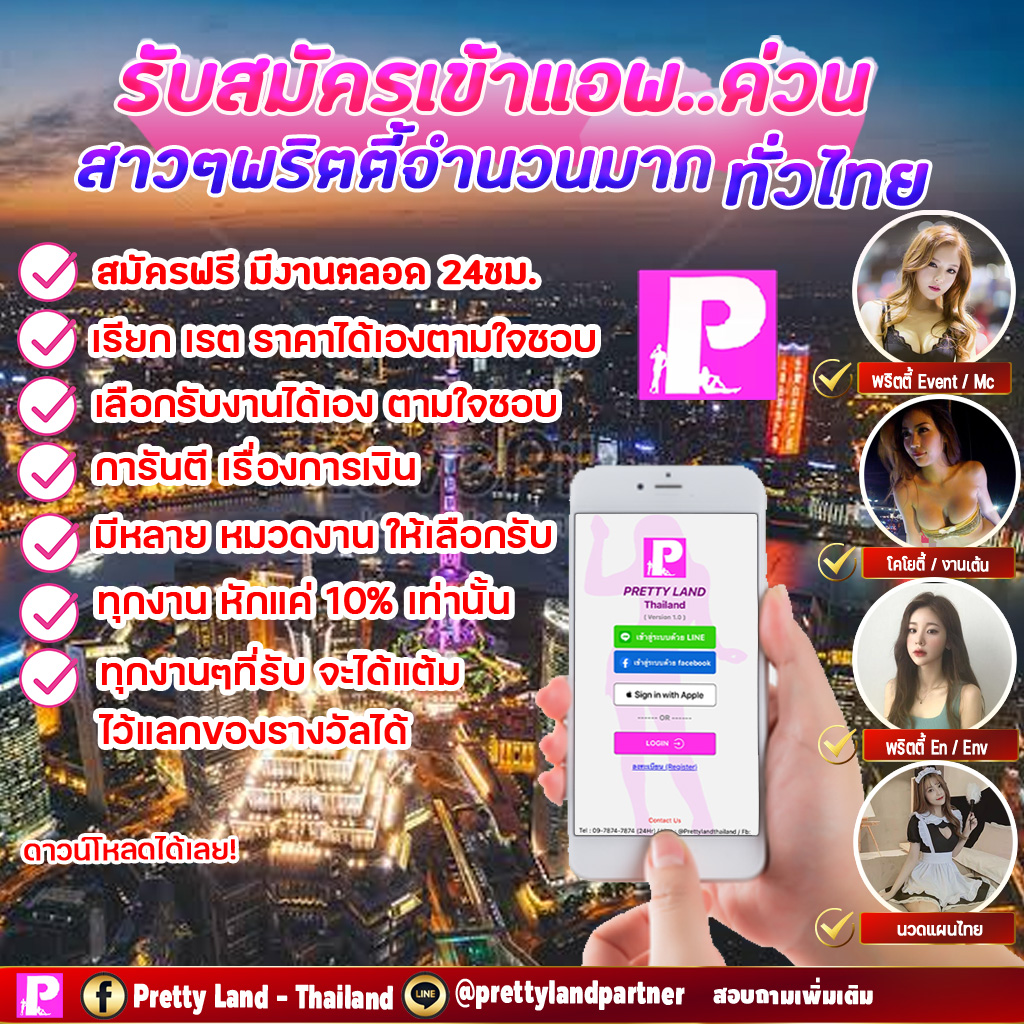
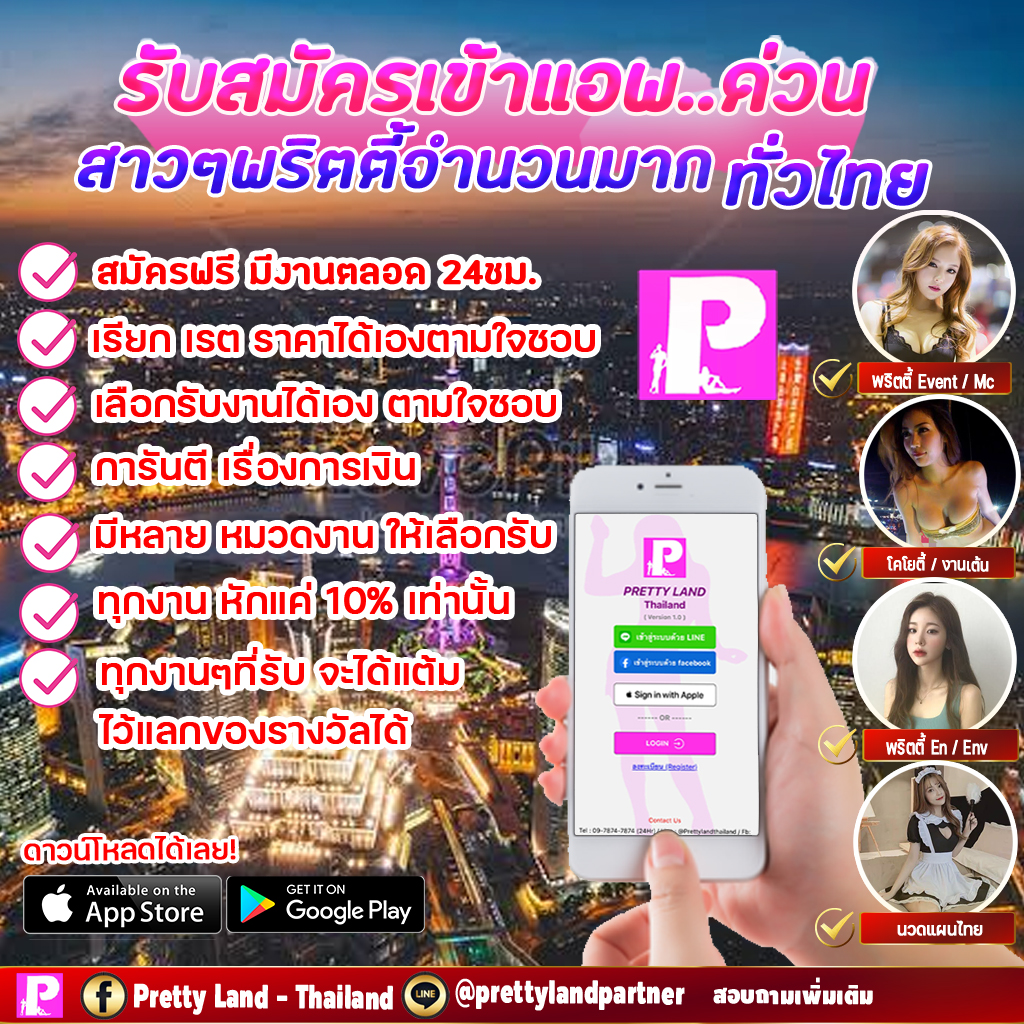
update new bg and add partner available function

Changed region(s): [[0.0, 0.8438, 0.4375, 0.9375]]

diff --git a/pretty-web/src/apps/containers/homeAdmin/members/Profile.js b/pretty-web/src/apps/containers/homeAdmin/members/Profile.js
@@ -1,12 +1,28 @@
 import React from "react"
 import { useHistory } from "react-router-dom"
+import { makeStyles } from "@material-ui/core/styles"
 import styled from "styled-components"
+import ImageList from "@material-ui/core/ImageList"
+import ImageListItem from "@material-ui/core/ImageListItem"
 
 import Moment from "moment"
 import { Button } from "@material-ui/core"
 
 import firebase from "../../../../util/firebase"
 import { AppConfig } from "../../../../Constants"
+
+const useStyles = makeStyles((theme) => ({
+  root: {
+    display: "flex",
+    flexWrap: "wrap",
+    justifyContent: "space-around",
+    backgroundColor: theme.palette.background.paper
+  },
+  imageList: {
+    width: 500,
+    height: 450
+  }
+}))
 
 const Container = styled.div`
   height: 100vh;
@@ -20,6 +36,7 @@ const Container = styled.div`
 export default function BasicImageList(props) {
   const history = useHistory()
   const { profile } = history.location.state
+  const classes = useStyles()
 
   const approveMember = () => {
     firebase.database().ref(`${AppConfig.env}members/${profile.id}`).update({
@@ -59,21 +76,70 @@ export default function BasicImageList(props) {
           <div>เบอร์ติดต่อ: {profile.mobile}</div>
           <div>สถานะ: {profile.status}</div>
         </div>
-        <div style={{ margin: 10 }}>
-          {profile.status === AppConfig.MemberStatus.newRegister && (
-            <Button
-              variant="contained"
-              color="primary"
-              style={{ margin: 5, backgroundColor: "green", color: "white" }}
-              onClick={approveMember}
-            >
-              อนุมัติข้อมูล
-            </Button>
+      </div>
+      <div style={{ margin: 10 }}>
+        <ImageList rowHeight={450} cols={2}>
+          {profile.imageUrl1 && (
+            <ImageListItem cols={2}>
+              <img
+                src={profile.imageUrl1}
+                style={{ height: "100%", width: "auto" }}
+                alt={""}
+              />
+            </ImageListItem>
           )}
-          <Button variant="contained" color="secondary" onClick={suspendMember}>
-            ลบข้อมูลออกจากระบบ
+          {profile.imageUrl2 && (
+            <ImageListItem cols={2}>
+              <img
+                src={profile.imageUrl2}
+                style={{ height: "100%", width: "auto" }}
+                alt={""}
+              />
+            </ImageListItem>
+          )}
+          {profile.imageUrl3 && (
+            <ImageListItem cols={2}>
+              <img
+                src={profile.imageUrl3}
+                style={{ height: "100%", width: "auto" }}
+                alt={""}
+              />
+            </ImageListItem>
+          )}
+          {profile.imageUrl4 && (
+            <ImageListItem cols={2}>
+              <img
+                src={profile.imageUrl4}
+                style={{ height: "100%", width: "auto" }}
+                alt={""}
+              />
+            </ImageListItem>
+          )}
+          {profile.imageUrl5 && (
+            <ImageListItem cols={2}>
+              <img
+                src={profile.imageUrl5}
+                style={{ height: "100%", width: "auto" }}
+                alt={""}
+              />
+            </ImageListItem>
+          )}
+        </ImageList>
+      </div>
+      <div style={{ margin: 10 }}>
+        {profile.status === AppConfig.MemberStatus.newRegister && (
+          <Button
+            variant="contained"
+            color="primary"
+            style={{ margin: 5, backgroundColor: "green", color: "white" }}
+            onClick={approveMember}
+          >
+            อนุมัติข้อมูล
           </Button>
-        </div>
+        )}
+        <Button variant="contained" color="secondary" onClick={suspendMember}>
+          ลบข้อมูลออกจากระบบ
+        </Button>
       </div>
     </Container>
   )

diff --git a/pretty-web/src/apps/containers/homePartner/Profile.js b/pretty-web/src/apps/containers/homePartner/Profile.js
@@ -1,16 +1,19 @@
-import React from "react"
+import React, { useEffect, useState } from "react"
 import { makeStyles } from "@material-ui/core/styles"
 import ImageList from "@material-ui/core/ImageList"
 import ImageListItem from "@material-ui/core/ImageListItem"
+import FormControlLabel from "@material-ui/core/FormControlLabel"
 
 import ProfileHeader from "./ProfileHeader"
+import IOSSwitch from "./iosSwitch"
+import { updateWorkingStatus } from "../../../apis"
 
 const useStyles = makeStyles((theme) => ({
   root: {
     display: "flex",
     flexWrap: "wrap",
     justifyContent: "space-around",
-    backgroundColor: theme.palette.background.paper,
+    backgroundColor: theme.palette.background.paper
   },
   imageList: {
     width: 500,
@@ -18,13 +21,36 @@ const useStyles = makeStyles((theme) => ({
   }
 }))
 
-export default function BasicImageList(props) {
+export default function Profile(props) {
   const { profile } = props
+  console.log("id:", profile.id, profile.work_status)
   const classes = useStyles()
+  const [checked, setChecked] = useState(false)
+
+  const handleStatus = (evt) => {
+    updateWorkingStatus(profile.id, !evt.target.checked)
+    setChecked(evt.target.checked)
+  }
+
+  useEffect(() => {
+    if (profile) {
+      setChecked(profile.work_status === "available")
+    }
+  }, [profile])
 
   return (
     <div style={{ height: "500px", overflow: "auto" }}>
       <div className={classes.root}>
+        <FormControlLabel
+          control={
+            <IOSSwitch
+              checked={checked}
+              onChange={handleStatus}
+              name="checked"
+            />
+          }
+          label={checked ? "พร้อมรับงาน" : "ไม่ว่าง"}
+        />
         <ProfileHeader profile={profile} />
         <ImageList rowHeight={450} className={classes.imageList} cols={2}>
           {profile.imageUrl1 && (

diff --git a/pretty-web/src/App.js b/pretty-web/src/App.js
@@ -96,51 +96,18 @@ const App = () => {
     window.location.href = "https://pretty-land.web.app/"
   }
 
-  const downloadAndroid = () => {
-    window.location.href = "https://pretty-land.web.app/"
-  }
+  // const downloadAndroid = () => {
+  //   window.location.href = "https://pretty-land.web.app/"
+  // }
 
-  const partnerConnectAdminLine = () => {
-    console.log("onClick:partnerConnectAdminLine")
-    window.location.href = "https://lin.ee/8f5kP3x"
-  }
+  // const partnerConnectAdminLine = () => {
+  //   console.log("onClick:partnerConnectAdminLine")
+  //   window.location.href = "https://lin.ee/8f5kP3x"
+  // }
 
   return (
     <div>
       <div>
-        <img
-          src="download_ios.png"
-          alt=""
-          style={{
-            width: 90,
-            position: "absolute",
-            top: window.innerHeight - window.innerHeight / 2 - 43,
-            left: 10
-          }}
-          onClick={downloadIOS}
-        />
-        <img
-          src="download_android.png"
-          alt=""
-          style={{
-            width: 90,
-            position: "absolute",
-            top: window.innerHeight - window.innerHeight / 2 - 43,
-            left: 100
-          }}
-          onClick={downloadAndroid}
-        />
-        <img
-          src="click_here_line.png"
-          alt=""
-          style={{
-            width: 50,
-            position: "absolute",
-            top: window.innerHeight - window.innerHeight / 2 + 25,
-            right: 0
-          }}
-          onClick={partnerConnectAdminLine}
-        />
         <img
           src="bg.jpg"
           alt=""
@@ -151,6 +118,7 @@ const App = () => {
             backgroundRepeat: "no-repeat",
             backgroundSize: "contain"
           }}
+          onClick={downloadIOS}
         />
       </div>
       <div>

diff --git a/pretty-web/src/apps/containers/homePartner/iosSwitch.js b/pretty-web/src/apps/containers/homePartner/iosSwitch.js
@@ -1,0 +1,58 @@
+import React from 'react';
+import { withStyles } from '@material-ui/core/styles';
+import Switch from '@material-ui/core/Switch';
+
+const IOSSwitch = withStyles((theme) => ({
+    root: {
+      width: 42,
+      height: 26,
+      padding: 0,
+      margin: theme.spacing(1),
+    },
+    switchBase: {
+      padding: 1,
+      '&$checked': {
+        transform: 'translateX(16px)',
+        color: theme.palette.common.white,
+        '& + $track': {
+          backgroundColor: '#52d869',
+          opacity: 1,
+          border: 'none',
+        },
+      },
+      '&$focusVisible $thumb': {
+        color: '#52d869',
+        border: '6px solid #fff',
+      },
+    },
+    thumb: {
+      width: 24,
+      height: 24,
+    },
+    track: {
+      borderRadius: 26 / 2,
+      border: `1px solid ${theme.palette.grey[400]}`,
+      backgroundColor: theme.palette.grey[50],
+      opacity: 1,
+      transition: theme.transitions.create(['background-color', 'border']),
+    },
+    checked: {},
+    focusVisible: {},
+  }))(({ classes, ...props }) => {
+    return (
+      <Switch
+        focusVisibleClassName={classes.focusVisible}
+        disableRipple
+        classes={{
+          root: classes.root,
+          switchBase: classes.switchBase,
+          thumb: classes.thumb,
+          track: classes.track,
+          checked: classes.checked,
+        }}
+        {...props}
+      />
+    );
+  });
+
+  export default IOSSwitch

diff --git a/pretty-web/src/apis/index.js b/pretty-web/src/apis/index.js
@@ -29,7 +29,6 @@ const loginApp = (username, password) => {
         let memberMaster = {}
         for (let key in members) {
           const member = members[key]
-          console.log(member.username, base64.decode(member.password), password)
           if (
             member.username === username &&
             base64.decode(member.password) === password
@@ -86,10 +85,20 @@ const getMemberProfile = (userId) => {
   })
 }
 
+const updateWorkingStatus = (userId, isEnabled) => {
+  firebase
+    .database()
+    .ref(`${AppConfig.env}/members/${userId}`)
+    .update({
+      work_status: isEnabled ? "working" : "available"
+    })
+}
+
 export {
   loginApp,
   saveNewPartner,
   validUserExist,
   getMemberProfile,
-  getConfigList
+  getConfigList,
+  updateWorkingStatus
 }

diff --git a/pretty-web/src/apps/containers/homePartner/ProfileHeader.js b/pretty-web/src/apps/containers/homePartner/ProfileHeader.js
@@ -20,7 +20,7 @@ const useStyles = makeStyles({
   }
 })
 
-export default function MediaCard(props) {
+export default function ProfileHeader(props) {
   const { profile } = props
   const classes = useStyles()
 
